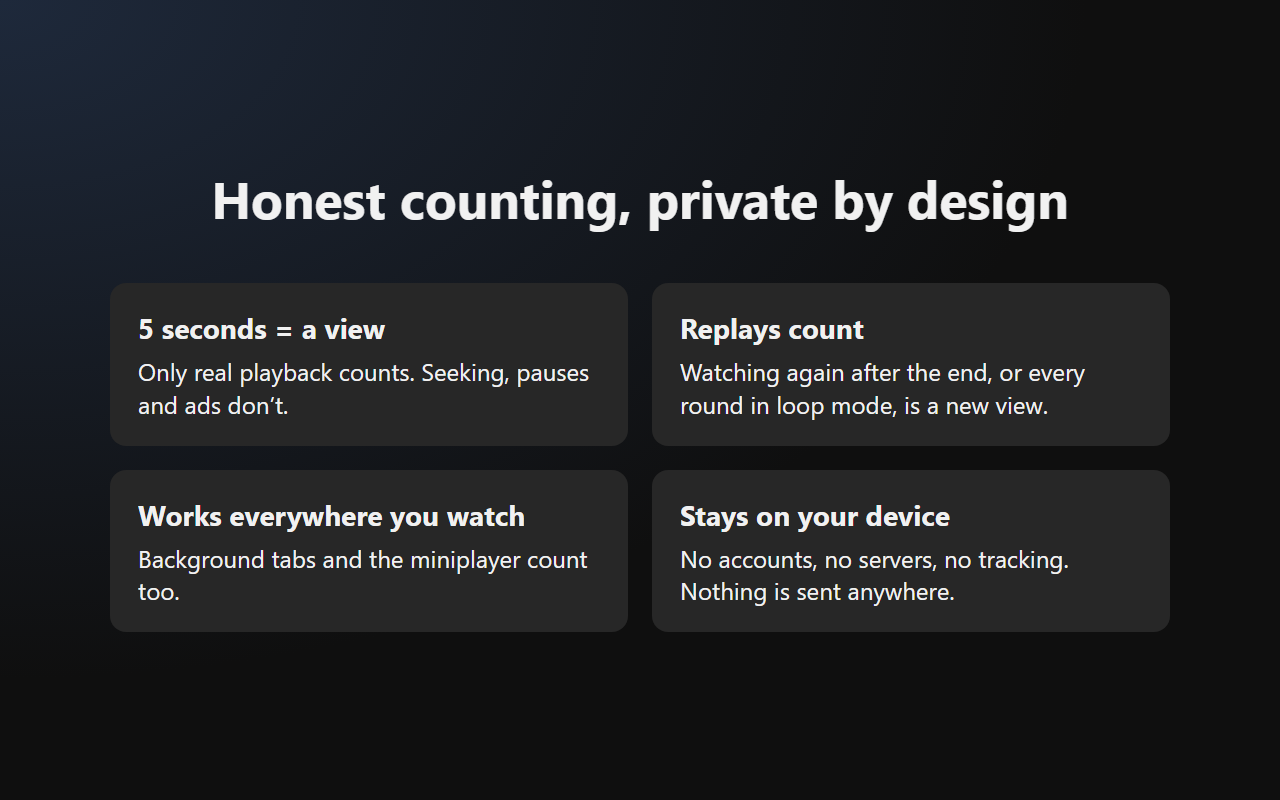
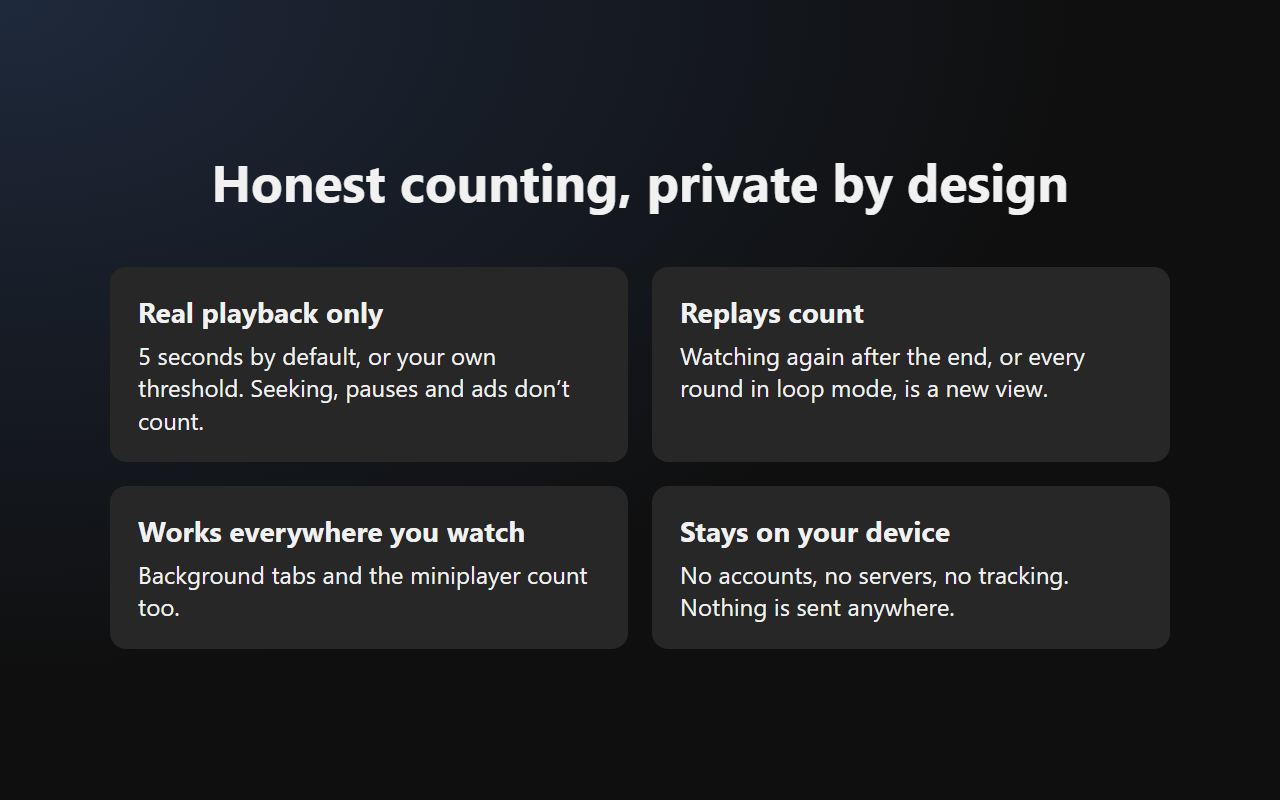
Prepare the 1.0.0 release for the Chrome Web Store
- Version 1.0.0; the changelog section is dated.
- Orphaned content scripts (left in open tabs after the extension is
  updated) now stop themselves: they disconnect their observers, clear
  timers and remove their counters instead of failing every 250 ms.
- `npm run package` first checks dist/ against the store's rules: name
  and description length per locale, files the manifest refers to, icon
  sizes, matching locale keys, version, no stray files, no remote code
  or eval. `npm run verify` runs the check alone.
- A Release workflow turns a v* tag into a GitHub release with the
  checked zip and the version's changelog notes.
- New store screenshot of the popup; the rules screenshot mentions the
  configurable threshold. The listing has release and submission steps.
- READMEs mention installing from a release zip.

diff --git a/store/templates/assets.html b/store/templates/assets.html
@@ -63,6 +63,15 @@
   .card .meta .you { color: #60a5fa; }
   .card.plain .meta .you { display: none; }
 
+  .popups { display: flex; gap: 48px; align-items: flex-start; }
+  .popups img {
+    width: 300px; height: 450px; border-radius: 14px;
+    box-shadow: 0 24px 60px rgba(0,0,0,.55), 0 0 0 1px rgba(255,255,255,.08);
+  }
+  .popups img:nth-child(2) { margin-top: 40px; }
+  #screenshot-popup { gap: 40px; }
+  #screenshot-popup .headline { font-size: 46px; }
+
   .rules { list-style: none; display: grid; grid-template-columns: 1fr 1fr; gap: 24px; width: 1060px; }
   .rules li { background: var(--card); border-radius: 16px; padding: 26px 28px; font-size: 24px; line-height: 1.35; }
   .rules b { display: block; font-size: 28px; margin-bottom: 8px; }
@@ -115,6 +124,17 @@
   </div>
 </section>
 
+<section class="asset shot" id="screenshot-popup">
+  <div>
+    <h1 class="headline" data-t="popupHeadline"></h1>
+    <p class="sub" data-t="popupSub"></p>
+  </div>
+  <div class="popups">
+    <img data-popup="stats" alt="">
+    <img data-popup="settings" alt="">
+  </div>
+</section>
+
 <section class="asset shot" id="screenshot-rules">
   <h1 class="headline" data-t="rulesHeadline"></h1>
   <ul class="rules">
@@ -150,8 +170,10 @@
       card2Views: '1.2M', card2Date: '1 month ago',
       card3Views: '48K', card3You: '(You: 1)', card3Date: '5 days ago',
       rulesHeadline: 'Honest counting, private by design',
-      rule1Title: '5 seconds = a view',
-      rule1: 'Only real playback counts. Seeking, pauses and ads don’t.',
+      popupHeadline: 'Stats, search and settings in one click',
+      popupSub: 'Import years of history from Google Takeout and back it up any time',
+      rule1Title: 'Real playback only',
+      rule1: '5 seconds by default, or your own threshold. Seeking, pauses and ads don’t count.',
       rule2Title: 'Replays count',
       rule2: 'Watching again after the end, or every round in loop mode, is a new view.',
       rule3Title: 'Works everywhere you watch',
@@ -173,8 +195,10 @@
       card2Views: '1,2 млн', card2Date: '1 мес. назад',
       card3Views: '48 тыс.', card3You: '(Вы: 1)', card3Date: '5 дн. назад',
       rulesHeadline: 'Честный подсчёт и полная приватность',
-      rule1Title: '5 секунд — просмотр',
-      rule1: 'Считается только реальное воспроизведение. Перемотка, пауза и реклама — нет.',
+      popupHeadline: 'Статистика, поиск и настройки в один клик',
+      popupSub: 'Импорт истории из Google Takeout и резервная копия в любой момент',
+      rule1Title: 'Только реальный просмотр',
+      rule1: 'По умолчанию 5 секунд — или свой порог. Перемотка, пауза и реклама не считаются.',
       rule2Title: 'Повторы считаются',
       rule2: 'Повтор после окончания и каждый круг в режиме loop — новый просмотр.',
       rule3Title: 'Везде, где вы смотрите',
@@ -188,6 +212,9 @@
   const [id, lang = 'en'] = location.hash.slice(1).split('/');
   document.getElementById(id)?.classList.add('active');
   document.documentElement.lang = lang;
+  for (const img of document.querySelectorAll('[data-popup]')) {
+    img.src = `../../docs/images/popup-${img.dataset.popup}-${lang}.png`;
+  }
   for (const element of document.querySelectorAll('[data-t]')) {
     element.textContent = TEXT[lang][element.dataset.t];
   }

diff --git a/src/content/index.ts b/src/content/index.ts
@@ -19,6 +19,7 @@ import {
 } from '../shared/settings';
 import { hideBadge, isBadgeShown, showBadge } from './badge';
 import { setCardSettings, startCardBadges } from './cards';
+import { isAlive, onShutdown } from './lifecycle';
 import { badgeContent } from './text';
 
 // ---- Settings -------------------------------------------------------------
@@ -67,7 +68,8 @@ function playbackState(message: MediaMessage): PlaybackState {
   };
 }
 
-window.addEventListener(MEDIA_EVENT, (event) => {
+function onMediaEvent(event: Event): void {
+  if (!isAlive()) return;
   const message = parseMediaMessage((event as CustomEvent<unknown>).detail);
   if (!message) return;
 
@@ -92,7 +94,9 @@ window.addEventListener(MEDIA_EVENT, (event) => {
       tracker.interrupt();
       break;
   }
-});
+}
+
+window.addEventListener(MEDIA_EVENT, onMediaEvent);
 
 // ---- Badge ----------------------------------------------------------------
 
@@ -155,15 +159,23 @@ chrome.storage.onChanged.addListener((changes, area) => {
 // navigation. Hide the badge as soon as navigation starts so it never shows
 // the previous video's count while the next page loads.
 document.addEventListener('yt-navigate-start', () => {
+  if (!isAlive()) return;
   shownVideoId = null;
   shownRecord = null;
   window.clearInterval(pollTimer);
   hideBadge();
 });
-document.addEventListener('yt-navigate-finish', () => void onPageChange());
-document.addEventListener('DOMContentLoaded', () => void onPageChange());
+document.addEventListener('yt-navigate-finish', () => isAlive() && void onPageChange());
+document.addEventListener('DOMContentLoaded', () => isAlive() && void onPageChange());
 
 // ---- Start ----------------------------------------------------------------
+
+onShutdown(() => {
+  window.removeEventListener(MEDIA_EVENT, onMediaEvent);
+  window.clearInterval(pollTimer);
+  shownVideoId = null;
+  document.documentElement.style.removeProperty('--local-views-color');
+});
 
 startCardBadges();
 onSettingsChanged(applySettings);

diff --git a/src/content/cards.ts b/src/content/cards.ts
@@ -6,6 +6,7 @@ import { setBounded } from '../core/cache';
 import { getRecords, videoIdFromKey, type VideoRecord } from '../core/storage';
 import { isVideoId } from '../shared/protocol';
 import { DEFAULT_SETTINGS, type Settings, type Surface } from '../shared/settings';
+import { isAlive, onShutdown } from './lifecycle';
 import { badgeContent } from './text';
 
 // YouTube changes its markup often, so every selector we depend on lives here.
@@ -144,6 +145,7 @@ async function loadRecords(): Promise<void> {
     for (const [id, record] of await getRecords(ids)) remember(id, record);
   } catch {
     // The extension was reloaded or updated: this orphaned script can no longer read.
+    isAlive();
     return;
   } finally {
     loading = false;
@@ -152,6 +154,7 @@ async function loadRecords(): Promise<void> {
 }
 
 function scan(): void {
+  if (!isAlive()) return;
   for (const { surface, selector, placement } of CARDS) {
     const enabled = settings.showOn[surface];
     for (const card of document.querySelectorAll(selector)) updateCard(card, placement, enabled);
@@ -179,7 +182,8 @@ export function setCardSettings(newSettings: Settings): void {
 }
 
 export function startCardBadges(): void {
-  new MutationObserver(scheduleScan).observe(document.documentElement, {
+  const observer = new MutationObserver(scheduleScan);
+  observer.observe(document.documentElement, {
     childList: true,
     subtree: true,
     characterData: true,
@@ -194,6 +198,12 @@ export function startCardBadges(): void {
       if (videoId) remember(videoId, (change.newValue as VideoRecord | undefined) ?? null);
     }
     scheduleScan();
+  });
+
+  onShutdown(() => {
+    observer.disconnect();
+    window.clearTimeout(scanTimer);
+    for (const badge of document.querySelectorAll('.' + BADGE_CLASS)) badge.remove();
   });
 
   scheduleScan();

diff --git a/src/content/lifecycle.ts b/src/content/lifecycle.ts
@@ -1,0 +1,39 @@
+// When the extension is updated or reloaded, Chrome injects the new content
+// script only into pages loaded afterwards. The old script keeps running in
+// tabs that were already open, but every chrome.* call now fails. Such an
+// orphaned script stops itself: it disconnects its observers, clears its
+// timers and removes its counters, so the page looks as if the extension
+// were not there until the tab is reloaded.
+
+const shutdownHandlers: (() => void)[] = [];
+let stopped = false;
+
+/** Registers cleanup to run once when this script is orphaned. */
+export function onShutdown(handler: () => void): void {
+  shutdownHandlers.push(handler);
+}
+
+/**
+ * True while the extension this script belongs to is still loaded. The first
+ * time it finds the script orphaned, it runs the shutdown handlers.
+ */
+export function isAlive(): boolean {
+  if (stopped) return false;
+  let alive: boolean;
+  try {
+    alive = Boolean(chrome.runtime?.id);
+  } catch {
+    alive = false;
+  }
+  if (!alive) {
+    stopped = true;
+    for (const handler of shutdownHandlers) {
+      try {
+        handler();
+      } catch {
+        // Keep cleaning up the rest.
+      }
+    }
+  }
+  return alive;
+}

diff --git a/tests/lifecycle.test.ts b/tests/lifecycle.test.ts
@@ -1,0 +1,27 @@
+import { describe, expect, it } from 'vitest';
+import { isAlive, onShutdown } from '../src/content/lifecycle';
+
+describe('lifecycle', () => {
+  it('runs the shutdown handlers once, when the extension goes away', () => {
+    const runtime: { id?: string } = { id: 'extension-id' };
+    (globalThis as { chrome?: unknown }).chrome = { runtime };
+    let calls = 0;
+    onShutdown(() => calls++);
+    onShutdown(() => {
+      throw new Error('a failing handler must not stop the others');
+    });
+    onShutdown(() => calls++);
+
+    expect(isAlive()).toBe(true);
+    expect(calls).toBe(0);
+
+    // What Chrome does to an orphaned content script.
+    delete runtime.id;
+    expect(isAlive()).toBe(false);
+    expect(calls).toBe(2);
+
+    runtime.id = 'extension-id';
+    expect(isAlive()).toBe(false);
+    expect(calls).toBe(2);
+  });
+});

diff --git a/src/content/badge.ts b/src/content/badge.ts
@@ -1,5 +1,6 @@
 // The "You: N views" label under the video on the watch page.
 
+import { isAlive, onShutdown } from './lifecycle';
 import type { BadgeContent } from './text';
 
 // YouTube changes its markup often, so every selector we depend on lives here.
@@ -78,10 +79,12 @@ let restoreTimer: number | undefined;
 const observer = new MutationObserver(() => {
   window.clearTimeout(restoreTimer);
   restoreTimer = window.setTimeout(() => {
-    if (shownContent) showBadge(shownContent);
+    if (shownContent && isAlive()) showBadge(shownContent);
   }, RESTORE_DELAY_MS);
 });
 let observedContainer: Element | null = null;
+
+onShutdown(() => hideBadge());
 
 function observe(container: Element | null): void {
   if (container === observedContainer) return;

diff --git a/store/listing.md b/store/listing.md
@@ -4,7 +4,9 @@ Everything to paste into the [Developer Dashboard](https://chrome.google.com/web
 
 ## Package
 
-`npm run package` → `local-views-for-youtube-<version>.zip`. Upload it on the **Package** tab. Bump `version` in `package.json` before every new upload: the store rejects a version it has already seen.
+`npm run package` → `local-views-for-youtube-<version>.zip`. It first checks the package against the store's rules (name and description length, files the manifest refers to, icon sizes, locales, no remote code); `npm run verify` runs just the check. The same zip is attached to the GitHub release for the version.
+
+Upload it on the **Package** tab. Bump `version` in `package.json` before every new upload: the store rejects a version it has already seen.
 
 ## Store listing tab
 
@@ -93,8 +95,8 @@ All files are in `store/assets/` (regenerate with `npm run store-assets`).
 | Field | File | Size |
 |---|---|---|
 | Store icon | `public/icons/icon128.png` | 128×128 |
-| Screenshots (EN listing) | `screenshot-badge-en.png`, `screenshot-cards-en.png`, `screenshot-rules-en.png` | 1280×800 |
-| Screenshots (RU listing) | `screenshot-badge-ru.png`, `screenshot-cards-ru.png`, `screenshot-rules-ru.png` | 1280×800 |
+| Screenshots (EN listing) | `screenshot-badge-en.png`, `screenshot-cards-en.png`, `screenshot-popup-en.png`, `screenshot-rules-en.png` | 1280×800 |
+| Screenshots (RU listing) | `screenshot-badge-ru.png`, `screenshot-cards-ru.png`, `screenshot-popup-ru.png`, `screenshot-rules-ru.png` | 1280×800 |
 | Small promo tile | `promo-small-en.png` | 440×280 |
 | Marquee promo tile (optional) | `promo-marquee-en.png` | 1400×560 |
 
@@ -126,9 +128,19 @@ The content scripts run on YouTube pages to detect playback of the main video pl
 
 **Privacy policy URL:** `https://github.com/LevHabarov/local-views-for-youtube/blob/main/PRIVACY.md`
 
+## Releasing a version
+
+1. Update `version` in `package.json` and add a section for it to `CHANGELOG.md`.
+2. Commit, then tag and push: `git tag v1.2.3 && git push origin main v1.2.3`.
+3. The Release workflow tests the code, builds and checks the zip, and publishes a GitHub release with the notes from the changelog.
+4. Upload that zip in the Developer Dashboard (**Package** → **Upload new package**) and submit for review.
+
 ## Before the first submission
 
-1. Register a developer account (one-time fee) and turn on 2-Step Verification for the Google account.
-2. Push the repository to GitHub so the privacy policy URL works.
-3. Fill in the publisher contact email and verify it.
-4. Upload the zip, fill in the tabs above, choose visibility (Public or Unlisted) and submit for review.
+1. Register a developer account at the [Developer Dashboard](https://chrome.google.com/webstore/devconsole) (one-time fee) and turn on 2-Step Verification for the Google account.
+2. Fill in the publisher contact email on the **Account** page and verify it.
+3. Create a new item and upload the zip.
+4. **Store listing:** paste the description, set the category, upload the icon, screenshots and promo tiles, and add the homepage and support URLs. Add Russian as a second language with its texts and screenshots.
+5. **Privacy practices:** paste the single purpose, the permission justifications and the privacy policy URL, answer the remote code and data usage questions.
+6. **Distribution:** choose visibility (Public, or Unlisted to try it out first) and the regions.
+7. Submit for review. Reviews usually take from a few days to a couple of weeks; the dashboard shows the status.

diff --git a/CHANGELOG.md b/CHANGELOG.md
@@ -1,8 +1,8 @@
 # Changelog
 
-## 0.1.0 — unreleased
+## 1.0.0 — 2026-10-18
 
-First version.
+First public release.
 
 - Counts a view after 5 seconds of real playback. Seeking, pauses and ads do not add time.
 - Replays and loops count as new views.
@@ -15,4 +15,5 @@ First version.
 - Backups: save the history to a JSON file and restore it; restoring never doubles counts.
 - Import from Google Takeout (watch-history.json): adds views from before the extension started counting; a new import replaces the previous one.
 - Delete the whole history.
+- After the extension is updated, the old script in already open tabs stops itself and removes its counters until the tab is reloaded.
 - English and Russian interface.

diff --git a/README.ru.md b/README.ru.md
@@ -52,6 +52,8 @@
 
 **Chrome Web Store:** скоро.
 
+**Из релиза:** скачайте `local-views-for-youtube-<версия>.zip` в разделе [Releases](https://github.com/LevHabarov/local-views-for-youtube/releases), распакуйте и выполните шаги 2–4 ниже, выбрав распакованную папку.
+
 **Из исходников** (Chrome и Яндекс Браузер; другие браузеры на Chromium тоже должны работать):
 
 1. Соберите расширение (нужен Node.js 24 или новее):

diff --git a/README.md b/README.md
@@ -52,6 +52,8 @@
 
 **Chrome Web Store:** coming soon.
 
+**From a release:** download `local-views-for-youtube-<version>.zip` from [Releases](https://github.com/LevHabarov/local-views-for-youtube/releases), unzip it, then follow steps 2–4 below with the unzipped folder.
+
 **From source** (Chrome and Yandex Browser; other Chromium-based browsers should work too):
 
 1. Build the extension (Node.js 24 or newer):
